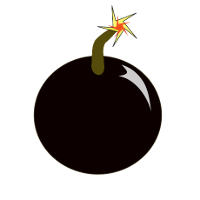
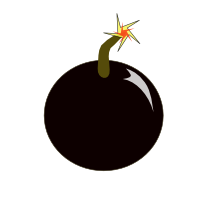
with the code it's better :p

Changed region(s): [[0.15, 0.03, 0.84, 0.9], [0.72, 0.75, 0.75, 0.78], [0.69, 0.78, 0.72, 0.81]]

diff --git a/gui/GameArena.cpp b/gui/GameArena.cpp
@@ -277,6 +277,15 @@ void GameArena::slotHearbeatUpdated(qint32 value) {
         scene->addItem(textHurryUp2);
         QTimer::singleShot(3000, this, SLOT(slotRemoveHurryUp()));
     }
+
+    QMap<int, QBomb*>::iterator itb;
+    for (itb = bombs.begin();itb!=bombs.end();++itb)
+    {
+        itb.value()->nextFrame();
+    }
+
+
+
 }
 
 void GameArena::removeBurnt() {
@@ -337,18 +346,24 @@ void GameArena::slotRemoveBonus(qint16 x, qint16 y) {
 void GameArena::slotAddBomb(int id)
 {
     const BombClient& bomb = map->getRefBomb(id);
-    QGraphicsSquareItem* pix = new QGraphicsSquareItem(bomb.getX() - squareSize/2,
-                                                       bomb.getY() - squareSize/2,
-                                                       squareSize);
+    QBomb* pix = new QBomb(bomb.getX()-squareSize/2,
+                           bomb.getY() - squareSize/2,
+                           squareSize);
+   // QGraphicsSquareItem* pix = new QGraphicsSquareItem(bomb.getX() - squareSize/2,
+   //                                                    bomb.getY() - squareSize/2,
+   //                                                    squareSize);
+
+    //set order in the stack of the bomb (behind everything else)
     pix->setZValue(1.0);
-    if(bomb.getIsRC())
+    /*if(bomb.getIsRC())
         pix->setItem(pixmaps.getPixmapBombrc());
     else if(bomb.getDudBomb())
         pix->setItem(pixmaps.getPixmapBombDud());
     else
         pix->setItem(pixmaps.getPixmapBomb());
+    */
     bombs[id] = pix;
-    scene->addItem(pix->getItem());
+    scene->addItem(pix);
 }
 
 void GameArena::slotMovedBomb(int id)
@@ -363,26 +378,26 @@ void GameArena::slotFlyingBomb(int id)
     //qDebug() << "GameArena : new flying bomb";
     /* Todo : animate the flying bomb */
 }
-
+//todo vérifier s'il existe pas un moyen moins chelou pour supprimer un couple
 void GameArena::slotRemoveBomb(int id)
 {
-    QMap<int, QGraphicsSquareItem*>::iterator itb = bombs.find(id);
+    QMap<int, QBomb*>::iterator itb = bombs.find(id);
     if(itb != bombs.end()) {
-        scene->removeItem(itb.value()->getItem());
+        scene->removeItem(itb.value());
         bombs.erase(itb);
     }
 }
 
 void GameArena::slotRemoveBombRC(int id)
 {
-    QMap<int, QGraphicsSquareItem*>::iterator itb = bombs.find(id);
+    QMap<int, QBomb*>::iterator itb = bombs.find(id);
     if(itb != bombs.end()) {
         scene->removeItem(itb.value());
         const BombClient& bomb = map->getRefBomb(id);
-        QGraphicsSquareItem* pix = new QGraphicsSquareItem(bomb.getX() - squareSize/2,
+        QBomb* pix = new QBomb(bomb.getX() - squareSize/2,
                                                            bomb.getY() - squareSize/2,
                                                            squareSize);
-        pix->setItem(pixmaps.getPixmapBomb());
+        //pix->setItem(pixmaps.getPixmapBomb());
         *itb = pix;
         scene->addItem(pix);
         qDebug() << "gamearene : bomb lost rc";

diff --git a/gui/qbomb.cpp b/gui/qbomb.cpp
@@ -18,68 +18,62 @@
 
 QBomb::QBomb()
 {
-    if (pixmaps.size()==0)
-    {
-        initPixList();
-    }
-
-    x=0;
-    y=0;
     size=0;
     currentPix=0;
+    initPixList();
 }
 void QBomb::initPixList()
 {
     QPixmap * tmpPix= new QPixmap("pictures/bomb.png");
     tmpPix->scaled(QSizeF(size,size).toSize());
     pixmaps.append(tmpPix);
-    tmpPix=&(QPixmap("pictures/bomb2.png").scaled(QSizeF(size,size).toSize()));
+
+    tmpPix= new QPixmap("pictures/bomb2.png");
+    tmpPix->scaled(QSizeF(size,size).toSize());
     pixmaps.append(tmpPix);
-    tmpPix=&(QPixmap("pictures/bomb3.png").scaled(QSizeF(size,size).toSize()));
+/*
+    tmpPix= new QPixmap("pictures/bomb3.png");
+    tmpPix->scaled(QSizeF(size,size).toSize());
     pixmaps.append(tmpPix);
 
-    qDebug()<<"test"<<pixmaps.at(0)<<pixmaps.at(0)->height();
-    qDebug()<<"size"<<size;
+    tmpPix= new QPixmap("pictures/bomb4.png");
+    tmpPix->scaled(QSizeF(size,size).toSize());
+    pixmaps.append(tmpPix);
+*/
 }
 
 QBomb::QBomb(int x, int y , int size)
 {
     currentPix=0;
     setPos(x,y,size);
-    bRect.setX(x);
-    bRect.setY(y);
-    bRect.setHeight(size);
-    bRect.setWidth(size);
     initPixList();
 
 }
 
 void QBomb::setPos(int x,int y,int size)
 {
-    this->x=x;
-    this->y=y;
+    setX(x);
+    setY(y);
     this->size=size;
-    bRect.setX(x);
-    bRect.setY(y);
-    bRect.setHeight(size);
-    bRect.setWidth(size);
-    //pix.setOffset(QPointF(x,y));
-}
-
-void QBomb::paint(QPainter *painter, const QStyleOptionGraphicsItem *option, QWidget *widget)
-{
-    qDebug() <<"ca paint "<<x<<" "<<y<<" "<<size;
-    qDebug() <<"bomb painter"<<painter;
-    qDebug() <<pixmaps.at(currentPix);
-    qDebug() <<pixmaps.at(currentPix)->isQBitmap();
-    painter->drawPixmap(x,y,size,size,*(pixmaps.at(currentPix)));
-   // pix.paint(painter,option,widget);
 }
 
 QRectF QBomb::boundingRect() const
 {
-    //qDebug() <<"boundingRect"<<pixmaps.at(currentPix)->rect().x()<<" "<<pixmaps.at(currentPix)->rect().y()<<" "<<pixmaps.at(currentPix)->rect().height();
-   // return pixmaps.at(currentPix)->rect();
-    qDebug()<<"boundingRect"<<bRect.x()<<" "<<bRect.y()<<" "<<bRect.height();
-    return bRect;
+    return QRectF(0,0,size,size);
+}
+
+void QBomb::paint(QPainter *painter, const QStyleOptionGraphicsItem *option, QWidget *widget)
+{
+    painter->drawPixmap(0,0,size,size,*(pixmaps.at(currentPix)));
+}
+
+
+
+void QBomb::nextFrame()
+{
+    if (currentPix>=pixmaps.size()-1)
+        currentPix=0;
+    else
+        currentPix++;
+    update();
 }

diff --git a/gui/GameArena.h b/gui/GameArena.h
@@ -23,6 +23,7 @@
 #include <QList>
 #include <QGraphicsView>
 #include <QMainWindow>
+#include <qbomb.h>
 
 #include "QGraphicsSquareItem.h"
 #include "MapClient.h"
@@ -53,7 +54,7 @@ private:
     QList<QGraphicsSquareItem*> burntPlayers;
     QList<QGraphicsSquareItem*> optionsItems;
     QMap<QPoint, QGraphicsItem*> bonus;
-    QMap<int, QGraphicsSquareItem*> bombs;
+    QMap<int, QBomb*> bombs;
     QMap<int, QGraphicsSquareItem*> flames;
 
     QGraphicsSquareItem *getCase(int);

diff --git a/gui/qbomb.h b/gui/qbomb.h
@@ -9,8 +9,7 @@
 class QBomb : public QGraphicsItem
 {
 private:
-    int x,y,size,currentPix;
-    QRectF bRect;
+    int size,currentPix;
     void paint(QPainter *painter, const QStyleOptionGraphicsItem *option, QWidget *widget);
     QRectF boundingRect() const;
     QList<QPixmap*>  pixmaps;

diff --git a/gui/QGraphicsSquareItem.cpp b/gui/QGraphicsSquareItem.cpp
@@ -45,6 +45,7 @@ QGraphicsPixmapItem *QGraphicsSquareItem::getItem()
 
 void QGraphicsSquareItem::paint(QPainter*p, const QStyleOptionGraphicsItem* qs, QWidget* qw)
 {
+    qDebug() <<"qgsi painter"<<p;
     pix.paint(p,qs,qw);
 }
 

diff --git a/gui/QGraphicsSquareItem.h b/gui/QGraphicsSquareItem.h
@@ -21,7 +21,7 @@
 
 #include <QGraphicsPixmapItem>
 #include <QGraphicsObject>
-
+#include <QDebug>
 
 //enum caseType
 //{
